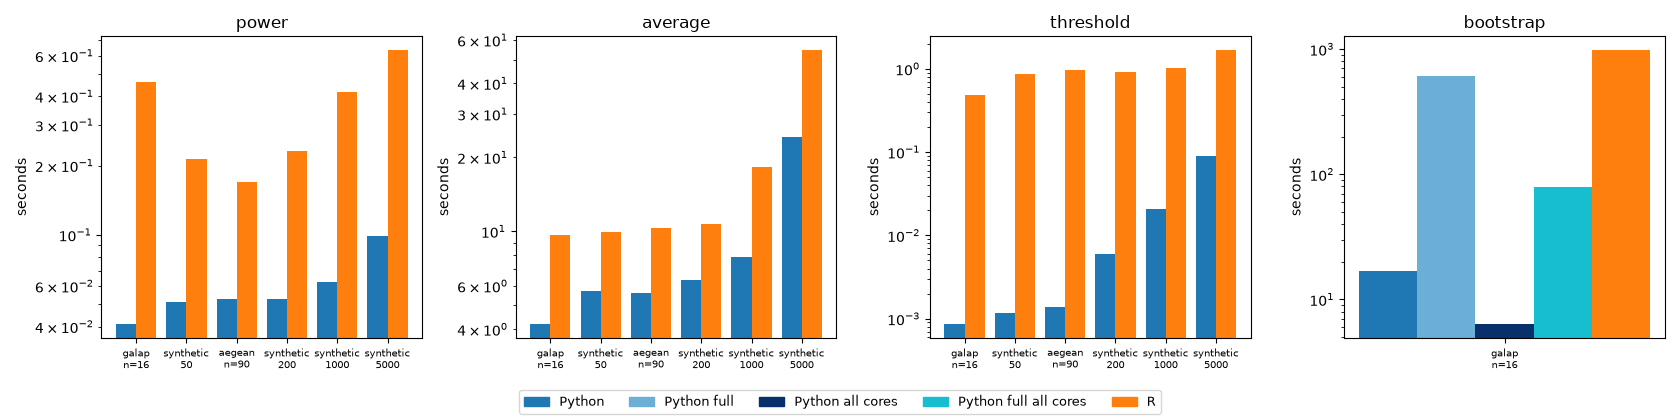
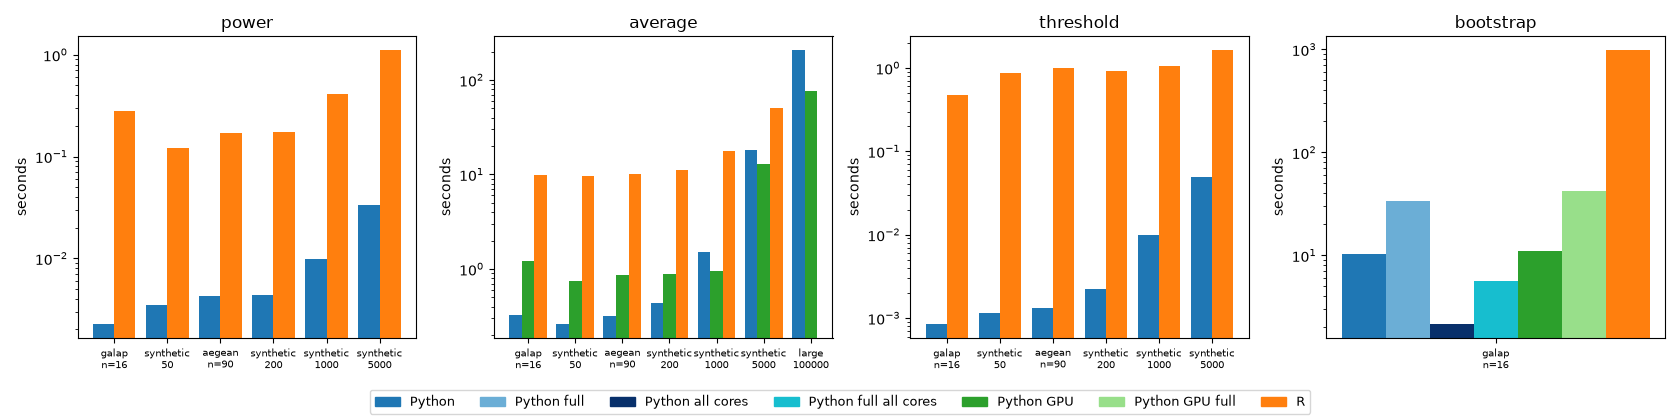
Benchmarks: results on three machines
Fresh runs of benchmarks/run.py --large 100000 --gpu with everything in
this stack, against R 4.5 and sars 2.1.1: an AMD Ryzen 7 7700 with an RTX
5060 Ti, an Intel Core i5-12400F with an RTX 3060, and an Apple M5 Pro.

- benchmarks/results/ has each machine's timings, speed-ups, machine and
  figure (the 0.11.8 Ryzen run replaced).
- benchmarks/README.md compares them: all 20 models 1.5 to 37 times
  faster than R, the full bootstrap 22 to 29 times, the large table 2.7
  to 2.8 times faster on the GPUs than on the CPUs.
- The README's speed bullet gives the headline numbers.

Fixes #275

diff --git a/benchmarks/README.md b/benchmarks/README.md
@@ -66,20 +66,45 @@ several machines sit side by side and a re-run replaces only its own folder:
 - `machine.csv`: the CPU, system and package versions, repeats and resamples;
 - `timings.webp`: the times, one panel per job.
 
-## On an AMD Ryzen 7 7700
+## Results on three machines
 
-sars 0.11.8 against R 4.5.2 with sars 2.1.1, on one core unless noted
-(`results/amd-ryzen-7-7700/`):
+sars as of this README (unreleased, after 0.11.11) against R 4.5 with sars 2.1.1, on
+one core unless noted, 100 resamples per bootstrap:
 
-| Job | sars | R sars | R ÷ sars |
+| Machine | `results/` |
+| --- | --- |
+| AMD Ryzen 7 7700 (8 cores), RTX 5060 Ti, Linux | `amd-ryzen-7-7700/` |
+| Intel Core i5-12400F (6 cores), RTX 3060, Linux | `12th-gen-intel-core-i5-12400f/` |
+| Apple M5 Pro, macOS (no NVIDIA GPU) | `apple-m5-pro/` |
+
+How many times faster sars is than R sars, by job (the range over the datasets):
+
+| Job | Ryzen 7 7700 | i5-12400F | M5 Pro |
 | --- | --- | --- | --- |
-| One power fit | 0.04-0.10 s | 0.17-0.64 s | 3-11× |
-| All 20 models | 4.2 s (galap) to 24 s (5,000 points) | 9.7 s to 55 s | 1.7-2.3× |
-| Threshold models | 1 ms (galap) to 89 ms (5,000 points) | 0.5 s to 1.7 s | 19-720× |
-| Bootstrap, 100 resamples, full | 613 s | 983 s | 1.6× |
-| Bootstrap, 100 resamples, fast | 17 s | | 58× |
-| Bootstrap, 100 resamples, full, all 16 threads | 79 s | | 12× |
+| One power fit | 33-124× | 14-112× | 16-130× |
+| All 20 models | 2.8-37× | 1.8-25× | 1.5-25× |
+| Threshold models | 33-765× | 19-596× | 28-704× |
+| Bootstrap, full | 29× | 22× | 22× |
+| Bootstrap, fast | 95× | 79× | 87× |
+| Bootstrap, full, all cores | 174× | 103× | 179× |
 
-Both packages agree on every result but one: on the 1,000-point synthetic
-dataset R's chapman fit stops at an AICc of 8194.6, where sars finds 6279.9,
-so R's best model there is p1 (6279.97) and sars's is chapman.
+All 20 models take 0.2 to 0.4 s on galap (R 5 to 10 s) and 18 to 38 s on 5,000 points
+(R 31 to 67 s). The full bootstrap, R's own method, takes 23 to 44 s where R takes 522
+to 985 s. The speed-up is smallest on the largest synthetic dataset, where the final
+solve of each fit dominates.
+
+The large table (`--large 100000`) and the GPU (`--gpu`), all 20 models:
+
+| Machine | CPU | GPU |
+| --- | --- | --- |
+| Ryzen 7 7700, RTX 5060 Ti | 207 s | 76 s |
+| i5-12400F, RTX 3060 | 471 s | 167 s |
+| M5 Pro | 162 s | |
+
+The GPU pays off on large tables, 2.7 to 2.8 times faster here. On the small datasets
+and the galap bootstraps it's slower than the CPU (about 1 s against 0.3 s for all 20
+models on galap): a few hundred islands don't keep it busy.
+
+Both packages agree on every result but one: on the 1,000-point synthetic dataset R's
+chapman fit stops short of the optimum sars finds, so R's best model there is p1 and
+sars's is chapman.

diff --git a/README.md b/README.md
@@ -34,8 +34,9 @@ pip install "sars[gpu]"     # start grids screened on an NVIDIA GPU: CuPy (CUDA 
 - **Threshold models**: piecewise regression for breakpoints (the small-island effect),
   with breakpoint intervals by bootstrap or inverted F test
 - **Fast**: each model's start grid is fitted as one batch of array operations, and
-  optionally on an NVIDIA GPU (`sars.set_backend("cupy")`); see the
-  [benchmarks](benchmarks/) against R `sars`
+  optionally on an NVIDIA GPU (`sars.set_backend("cupy")`). Against R `sars`, all 20
+  models fit 1.5 to 37 times faster and the full bootstrap 22 to 29 times faster, on
+  three machines; see the [benchmarks](benchmarks/)
 
 **Comparing models and their uncertainty**
 
